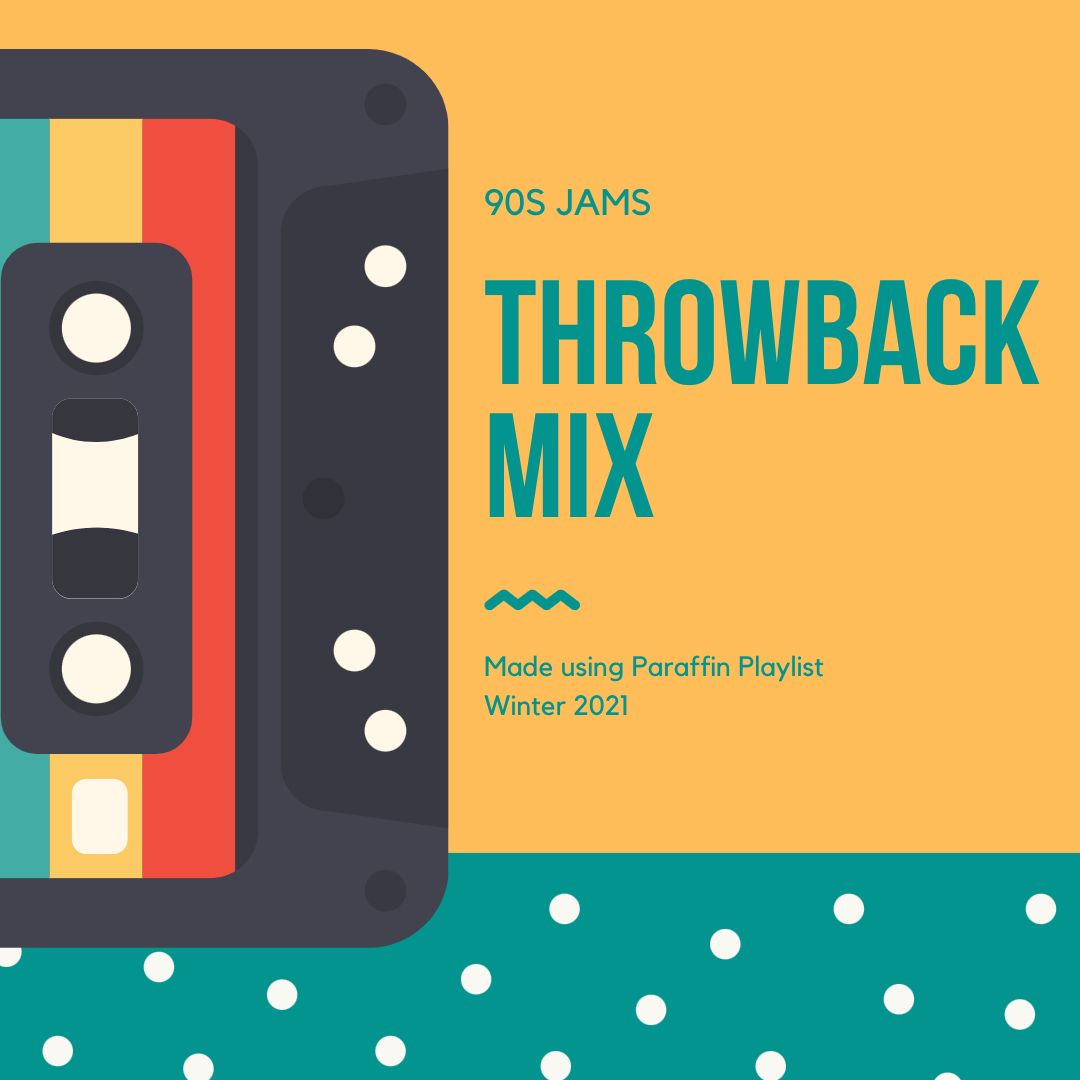
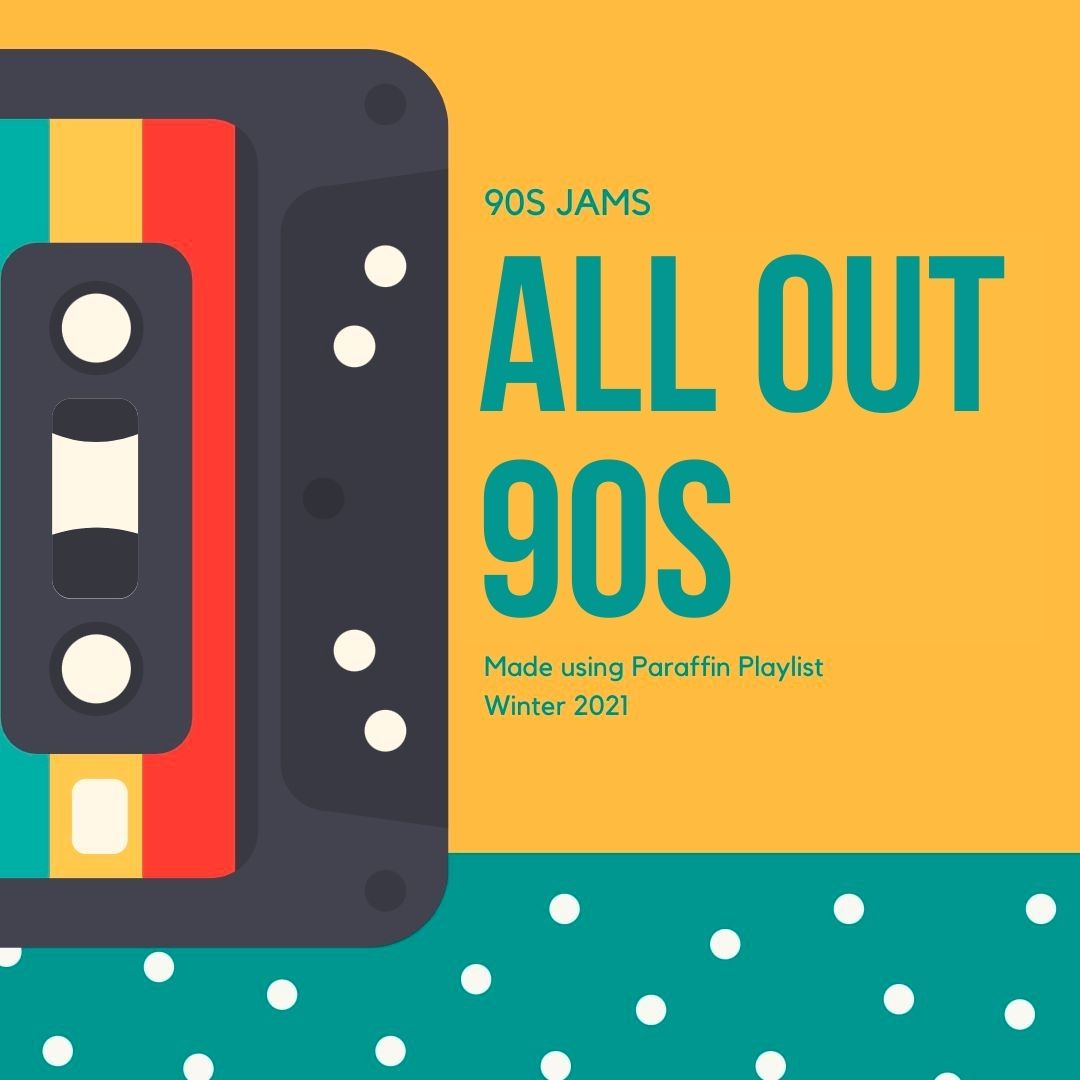
Dec. 16

diff --git a/featured.php b/featured.php
@@ -5,7 +5,7 @@
 
 <!-- HERO SECTION-->
 <div class="px-4 py-5 text-center bg-light">
-    <h1 class="display-1 mb-5">Human Music</h1>
+    <h1 class="display-1 mb-5">90s Jams</h1>
 </div>
 
 
@@ -13,13 +13,13 @@
     <div class="row text-center">
         <div class="col-md-4 my-3">
             <img
-                src="img/human-music.gif"
+                src="img/90s-jams.jpg"
                 class="img-fluid cover-art"
                 alt="Placeholder"
             />
             <div class="py-2 text-end">
                 <i class="bi bi-arrow-left-right pointer" data-bs-toggle="modal" data-bs-target="#exampleModal"></i>   
-                <a href="https://open.spotify.com/playlist/31QySbrTSYRN6cxoVfOp9m?si=6671426000a242e0" target="_blank" class="spotify">
+                <a href="https://open.spotify.com/playlist/37i9dQZF1DXbTxeAdrVG2l?si=NsIdiTIrQ3-wGksnOLwsnQ" target="_blank" class="spotify">
                     <i class="bi bi-spotify" alt="Listen on Spotify" title="Listen on Spotify"></i>
                 </a>
             </div>
@@ -31,7 +31,7 @@
                 <div class="spinner-grow mx-2" role="status"></div>
             </div>
             <div class="embed">
-                <iframe src="https://open.spotify.com/embed/playlist/31QySbrTSYRN6cxoVfOp9m?utm_source=generator&theme=0" width="100%" height="100%" frameBorder="0" allowfullscreen="" allow="autoplay; clipboard-write; encrypted-media; fullscreen; picture-in-picture"></iframe>
+                <iframe src="https://open.spotify.com/embed/playlist/37i9dQZF1DXbTxeAdrVG2l?utm_source=generator" width="100%" height="100%" frameBorder="0" allowfullscreen="" allow="autoplay; clipboard-write; encrypted-media; fullscreen; picture-in-picture"></iframe>
     
             </div>
         </div>    

diff --git a/playlists.php b/playlists.php
@@ -14,7 +14,7 @@
         <div class="col-md-3 col-sm-6 my-3">
             <a href="play.php">
                 <img
-                    src="img/human-music.jpeg"
+                    src="img/human-music.gif"
                     class="img-fluid cover-art"
                     alt="Placeholder"
                 />
@@ -28,7 +28,7 @@
         </div>
         <div class="col-md-3 col-sm-6 my-3">
             <img
-                src="img/sea-shanties.png"
+                src="img/blue.jpg"
                 class="img-fluid cover-art"
                 alt="Placeholder"
             />
@@ -41,7 +41,7 @@
         </div>
         <div class="col-md-3 col-sm-6 my-3">
             <img
-                src="img/90s-jams.jpg"
+                src="img/happy-new-year.jpg"
                 class="img-fluid cover-art"
                 alt="Placeholder"
             />
@@ -54,7 +54,7 @@
         </div>
         <div class="col-md-3 col-sm-6 my-3">
             <img
-                src="img/into-the-void.jpg"
+                src="img/north-woods.jpg"
                 class="img-fluid cover-art"
                 alt="Placeholder"
             />

diff --git a/index.php b/index.php
@@ -6,6 +6,7 @@
 <!-- HERO SECTION-->
 <div class="px-4 py-5 text-center bg-light">
     <h1 class="display-1 mb-5">NFT Playlists</h1>
+    <p class="lead mb-5">Digital mixtapes that you really own.</p>
     <div class="col-lg-6 mx-auto">
     <div class="d-grid gap-2 d-sm-flex justify-content-sm-center">
         <a href="builder.php">
@@ -13,7 +14,7 @@
             type="button"
             class="btn btn-light btn-lg px-4 gap-3 btn-outline-secondary"
         >
-            Make One Now
+            Mint One Now
         </button>
         </a>
     </div>
@@ -51,11 +52,13 @@
     </div>
     <div class="row text-center">
         <div class="col-md-4 col-sm-6 my-3">
-            <img
-                src="img/90s-jams.jpg"
-                class="img-fluid cover-art"
-                alt="Placeholder"
-            />
+            <a href="featured.php">
+                <img
+                    src="img/90s-jams.jpg"
+                    class="img-fluid cover-art"
+                    alt="Placeholder"
+                />
+            </a>
         </div>
         <div class="col-md-4 col-sm-6 my-3">
             <img

diff --git a/modal.php b/modal.php
@@ -15,13 +15,13 @@
         <div class="row my-3">
             <label for="inputPlaylistTitle" class="col-sm-2 col-form-label">To:</label>
             <div class="col-sm-10">
-                <input type="text" class="form-control" />
+                <input type="text" class="form-control" placeholder="wax account"/>
             </div>
         </div>
         <div class="row mb-3">
             <label for="inputPlaylistTitle" class="col-sm-2 col-form-label">Memo:</label>
             <div class="col-sm-10">
-                <input type="text" class="form-control" />
+                <input type="text" class="form-control" placeholder="optional"/>
             </div>
         </div>
       </div>

diff --git a/builder.php b/builder.php
@@ -21,8 +21,9 @@
             alt="Placeholder"
           />
           <form class="mt-3" method="get" action="/play.php/">
-            <label>Select a file:</label>
-            <input type="file"><br><br>
+            <label for="formFileSm" class="form-label">Upload Cover Art</label>
+            <input class="form-control form-control-sm" id="formFileSm" type="file" />
+            
         </div>
         
         <div class="col-md-8">
